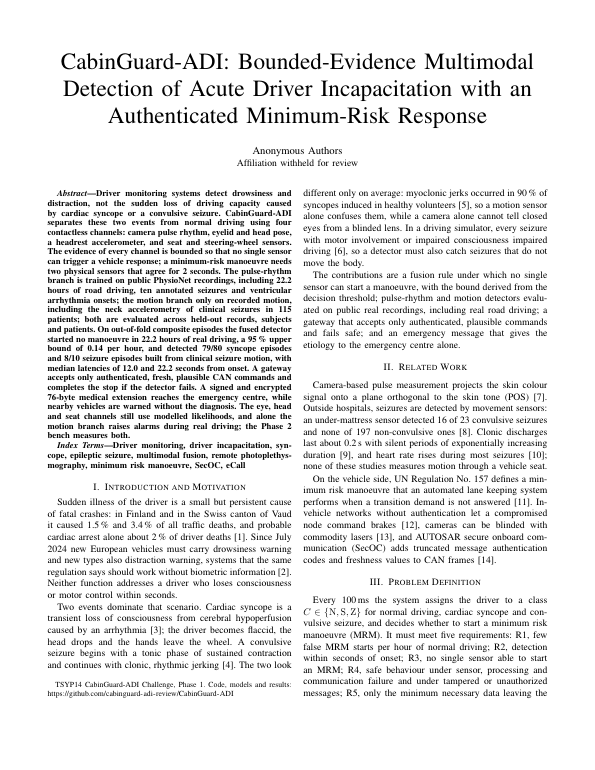
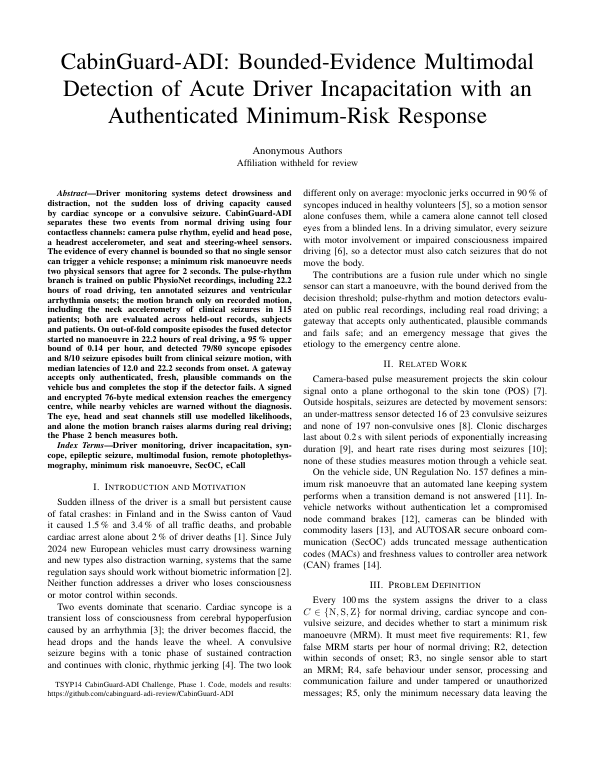
Add files via upload

Changed region(s): [[0.0605, 0.4052, 0.9378, 0.7792], [0.242, 0.3117, 0.363, 0.3429], [0.8168, 0.3429, 0.8471, 0.374]]

diff --git a/1_IEEE_Research_Paper/IEEE_Research_Paper_CabinGuard.tex b/1_IEEE_Research_Paper/IEEE_Research_Paper_CabinGuard.tex
@@ -27,7 +27,7 @@
 \maketitle
 
 \begin{abstract}
-Driver monitoring systems detect drowsiness and distraction, not the sudden loss of driving capacity caused by cardiac syncope or a convulsive seizure. CabinGuard-ADI separates these two events from normal driving using four contactless channels: camera pulse rhythm, eyelid and head pose, a headrest accelerometer, and seat and steering-wheel sensors. The evidence of every channel is bounded so that no single sensor can trigger a vehicle response; a minimum-risk manoeuvre needs two physical sensors that agree for 2 seconds. The pulse-rhythm branch is trained on public PhysioNet recordings, including \DriveHours\ hours of road driving, ten annotated seizures and ventricular arrhythmia onsets; the motion branch only on recorded motion, including the neck accelerometry of clinical seizures in \MrSzBgPatients\ patients; both are evaluated across held-out records, subjects and patients. On out-of-fold composite episodes the fused detector started no manoeuvre in \FusionHours\ hours of real driving, a 95\,\% upper bound of \FaFullUpper\ per hour, and detected \SyFull\ syncope episodes and \SzFull\ seizure episodes built from clinical seizure motion, with median latencies of \LatSyFull\ and \LatSzFull\ seconds from onset. A gateway accepts only authenticated, fresh, plausible CAN commands and completes the stop if the detector fails. A signed and encrypted 76-byte medical extension reaches the emergency centre, while nearby vehicles are warned without the diagnosis. The eye, head and seat channels still use modelled likelihoods, and alone the motion branch raises alarms during real driving; the Phase 2 bench measures both.
+Driver monitoring systems detect drowsiness and distraction, not the sudden loss of driving capacity caused by cardiac syncope or a convulsive seizure. CabinGuard-ADI separates these two events from normal driving using four contactless channels: camera pulse rhythm, eyelid and head pose, a headrest accelerometer, and seat and steering-wheel sensors. The evidence of every channel is bounded so that no single sensor can trigger a vehicle response; a minimum risk manoeuvre needs two physical sensors that agree for 2 seconds. The pulse-rhythm branch is trained on public PhysioNet recordings, including \DriveHours\ hours of road driving, ten annotated seizures and ventricular arrhythmia onsets; the motion branch only on recorded motion, including the neck accelerometry of clinical seizures in \MrSzBgPatients\ patients; both are evaluated across held-out records, subjects and patients. On out-of-fold composite episodes the fused detector started no manoeuvre in \FusionHours\ hours of real driving, a 95\,\% upper bound of \FaFullUpper\ per hour, and detected \SyFull\ syncope episodes and \SzFull\ seizure episodes built from clinical seizure motion, with median latencies of \LatSyFull\ and \LatSzFull\ seconds from onset. A gateway accepts only authenticated, fresh, plausible commands on the vehicle bus and completes the stop if the detector fails. A signed and encrypted 76-byte medical extension reaches the emergency centre, while nearby vehicles are warned without the diagnosis. The eye, head and seat channels still use modelled likelihoods, and alone the motion branch raises alarms during real driving; the Phase 2 bench measures both.
 \end{abstract}
 
 \begin{IEEEkeywords}
@@ -44,13 +44,13 @@ The contributions are a fusion rule under which no single sensor can start a man
 \section{Related Work}
 Camera-based pulse measurement projects the skin colour signal onto a plane orthogonal to the skin tone (POS)~\cite{wang2017pos}. Outside hospitals, seizures are detected by movement sensors: an under-mattress sensor detected 16 of 23 convulsive seizures and none of 197 non-convulsive ones~\cite{nouboue2023}. Clonic discharges last about 0.2\,s with silent periods of exponentially increasing duration~\cite{conradsen2013}, and heart rate rises during most seizures~\cite{eggleston2014}; none of these studies measures motion through a vehicle seat.
 
-On the vehicle side, UN Regulation No.~157 defines a minimum risk manoeuvre that an automated lane keeping system performs when a transition demand is not answered~\cite{unece157}. In-vehicle networks without authentication let a compromised node command brakes~\cite{koscher2010}, cameras can be blinded with commodity lasers~\cite{petit2015}, and AUTOSAR secure onboard communication (SecOC) adds truncated message authentication codes and freshness values to CAN frames~\cite{autosar_secoc}.
+On the vehicle side, UN Regulation No.~157 defines a minimum risk manoeuvre that an automated lane keeping system performs when a transition demand is not answered~\cite{unece157}. In-vehicle networks without authentication let a compromised node command brakes~\cite{koscher2010}, cameras can be blinded with commodity lasers~\cite{petit2015}, and AUTOSAR secure onboard communication (SecOC) adds truncated message authentication codes (MACs) and freshness values to controller area network (CAN) frames~\cite{autosar_secoc}.
 
 \section{Problem Definition}
 Every 100\,ms the system assigns the driver to a class $C\in\{\mathrm{N},\mathrm{S},\mathrm{Z}\}$ for normal driving, cardiac syncope and convulsive seizure, and decides whether to start a minimum risk manoeuvre (MRM). It must meet five requirements: R1, few false MRM starts per hour of normal driving; R2, detection within seconds of onset; R3, no single sensor able to start an MRM; R4, safe behaviour under sensor, processing and communication failure and under tampered or unauthorized messages; R5, only the minimum necessary data leaving the vehicle. A false start first produces a 3\,s alert that a conscious driver cancels, so R1 counts alerts as well as braking.
 
 \section{System Architecture}
-The sensing layer has three physical sensors, shown on the left of Fig.~\ref{fig:arch}. A 30\,fps camera with 850\,nm illumination on the steering column yields the pulse beat times, the eye aspect ratio $e$ and the head pitch $\theta$. An MPU6050 accelerometer in the headrest is sampled at 100\,Hz. A force-sensing resistor in the seatback, a second one in the wheel rim, two capacitive touch pads and the steering torque $\tau$ form the seat and wheel sensor. An ESP32 node streams them in 24-byte frames with sequence number and CRC to the edge host, which runs detection, the watchdog and the MRM state machine and commands the vehicle only through one authenticated CAN message to the gateway that owns the actuators. Inputs older than 300\,ms count as missing.
+The sensing layer has three physical sensors, shown on the left of Fig.~\ref{fig:arch}. A 30\,fps camera with 850\,nm illumination on the steering column yields the pulse beat times, the eye aspect ratio $e$ and the head pitch $\theta$. The headrest inertial measurement unit (IMU), an MPU6050, is sampled at 100\,Hz. A force-sensing resistor (FSR) in the seatback, a second one in the wheel rim, two capacitive touch pads and the steering torque $\tau$ form the seat and wheel sensor. An ESP32 node streams them in 24-byte frames with a sequence number and a cyclic redundancy check (CRC) to the edge host, which runs detection, the watchdog and the MRM state machine and commands the vehicle only through one authenticated CAN message to the gateway that owns the actuators. Inputs older than 300\,ms count as missing.
 
 \begin{figure*}[!t]
 \centering
@@ -59,12 +59,12 @@ The sensing layer has three physical sensors, shown on the left of Fig.~\ref{fig
   sen/.style={draw, thick, minimum width=1.7cm, minimum height=0.55cm, align=center, fill=black!5},
   box/.style={draw, minimum width=1.75cm, minimum height=0.55cm, align=center},
   arr/.style={->, thick}]
-  \node[sen, minimum height=1.45cm] (cam) at (0,3.0) {Camera\\NIR, 30\,fps};
+  \node[sen, minimum height=1.45cm] (cam) at (0,3.0) {Camera\\850\,nm, 30\,fps};
   \node[sen] (imu) at (0,1.55) {Headrest IMU\\100\,Hz};
   \node[sen] (seat) at (0,0.5) {Seat and wheel\\FSR, touch, $\tau$};
-  \node[box] (fc) at (2.6,3.45) {rPPG beats\\pulse rhythm $\mathbf{c}$};
+  \node[box] (fc) at (2.6,3.45) {POS beats\\pulse rhythm $\mathbf{c}$};
   \node[box] (fv) at (2.6,2.55) {landmarks\\$e$, $\theta$};
-  \node[box] (fm) at (2.6,1.55) {Welch PSD\\motion $\mathbf{m}$};
+  \node[box] (fm) at (2.6,1.55) {Welch spectra\\motion $\mathbf{m}$};
   \node[box] (fp) at (2.6,0.5) {slump $\psi$\\grip $g$};
   \node[box] (bc) at (5.2,3.45) {$\lambda_{\mathrm{card}}$, bound};
   \node[box] (bv) at (5.2,2.55) {$\lambda_{\mathrm{vis}}$, bound};
@@ -76,7 +76,7 @@ The sensing layer has three physical sensors, shown on the left of Fig.~\ref{fig
   \node[box] (gw) at (15.0,3.0) {SecOC 0x120\\gateway};
   \node[box] (act) at (17.9,3.0) {brakes, hazards\\parking brake};
   \node[box] (tel) at (15.0,0.95) {telematics\\unit};
-  \node[box] (psap) at (17.9,1.45) {PSAP\\signed MEC};
+  \node[box] (psap) at (17.9,1.45) {emergency\\centre, MEC};
   \node[box] (v2x) at (17.9,0.45) {vehicles\\DENM};
   \draw[arr] ([yshift=0.45cm]cam.east) -- (fc.west);
   \draw[arr] ([yshift=-0.45cm]cam.east) -- (fv.west);
@@ -105,7 +105,7 @@ The sensing layer has three physical sensors, shown on the left of Fig.~\ref{fig
 
 \section{Detection Methodology}
 \subsection{Features}
-The camera front end detects pulse peaks in the POS signal~\cite{wang2017pos}; in the public recordings used for training the beats are ECG R-peaks instead. Over a 10\,s window the pulse-rhythm vector $\mathbf{c}$ holds the rate from the median inter-beat interval, its difference from the driver's own running baseline, the coefficient of variation of the intervals, and the fraction $a$ of the window not covered by intervals shorter than 2\,s. Ventricular fibrillation, flutter and asystole produce no pulse and raise $a$ towards one. Eye opening is the eye aspect ratio of Soukupov\'a and \v{C}ech~\cite{soukupova2016} from six eyelid landmarks.
+The camera front end detects pulse peaks in the POS signal~\cite{wang2017pos}; in the public recordings used for training the beats are electrocardiogram (ECG) R-peaks instead. Over a 10\,s window the pulse-rhythm vector $\mathbf{c}$ holds the rate from the median inter-beat interval, its difference from the driver's own running baseline, the coefficient of variation of the intervals, and the fraction $a$ of the window not covered by intervals shorter than 2\,s. Ventricular fibrillation (VF), flutter and asystole produce no pulse and raise $a$ towards one. Eye opening is the eye aspect ratio of Soukupov\'a and \v{C}ech~\cite{soukupova2016} from six eyelid landmarks.
 \begin{equation}
 e=\frac{\lVert p_2-p_6\rVert+\lVert p_3-p_5\rVert}{2\,\lVert p_1-p_4\rVert}
 \label{eq:ear}
@@ -115,7 +115,7 @@ In Equation~\eqref{eq:ear}, $p_1$ and $p_4$ are the eye corners and $p_2,p_3,p_5
 r=\frac{\int_{2}^{6}S(f)\,\mathrm{d}f}{\int_{0.5}^{20}S(f)\,\mathrm{d}f}
 \label{eq:ser}
 \end{equation}
-In Equation~\eqref{eq:ser}, $r$ is the spectral energy ratio and $f$ the frequency in hertz; each window is first low-passed at 7\,Hz by a causal fourth-order Butterworth filter, so recordings sampled between 16 and 100\,Hz present the same bandwidth. A ratio alone is noisy when the body is still, so the motion vector $\mathbf{m}$ adds the 2--6\,Hz RMS acceleration, the peak frequency, the total RMS, the largest autocorrelation at lags of 0.15--0.5\,s, which captures the repetition of jerks, and the peak-to-mean ratio of the band spectrum. Postural slump $\psi$ is one minus the mean normalized seatback pressure over 1\,s, and $g$ is the grip state: active, disengaged, or clenched when the rim force exceeds a threshold.
+In Equation~\eqref{eq:ser}, $r$ is the spectral energy ratio and $f$ the frequency in hertz; each window is first low-passed at 7\,Hz by a causal fourth-order Butterworth filter, so recordings sampled between 16 and 100\,Hz present the same bandwidth. A ratio alone is noisy when the body is still, so the motion vector $\mathbf{m}$ adds the 2--6\,Hz root-mean-square (RMS) acceleration, the peak frequency, the total RMS, the largest autocorrelation at lags of 0.15--0.5\,s, which captures the repetition of jerks, and the peak-to-mean ratio of the band spectrum. Postural slump $\psi$ is one minus the mean normalized seatback pressure over 1\,s, and $g$ is the grip state: active, disengaged, or clenched when the rim force exceeds a threshold.
 
 \subsection{Branch Evidence}
 Four branches turn features into evidence. The cardiac branch is a multinomial logistic regression on $\mathbf{c}$ and the motion branch gradient-boosted trees~\cite{friedman2001} with the histogram splits of LightGBM~\cite{ke2017} on $\mathbf{m}$, both trained with weights that balance the classes. The vision branch on $(e,\theta)$ and the posture branch on $(\psi,g)$ use expert-set Gaussian and categorical class densities, since no public recording provides them for incapacitated drivers. A discriminative model's posterior becomes a likelihood ratio once its training prior is divided out, the scaled-likelihood step of hybrid connectionist recognisers~\cite{bourlard1994}.
@@ -149,15 +149,15 @@ The watchdog sets the flag $F$ that starts the MRM when one event class keeps $P
 \section{Safety Response and Fault Handling}
 Once $F$ is set, the state machine follows the transition-demand sequence of UN Regulation No.~157~\cite{unece157} with design values of our own: a 3\,s audible and haptic alert that the driver cancels by braking or by more than 4\,Nm of steering torque, unless the torque coincides with clonic motion or a clenched grip; hazard lights and escalation; braking at $-3.2$\,m/s$^2$ from 10\,s after the alert with a move to the shoulder; and at standstill the parking brake and door unlock. The emergency call is placed when the alert goes unanswered, not after the stop.
 
-The watchdog derives the mode from sensor freshness. Losing the camera removes the cardiac and vision branches (degraded mode 1), losing the accelerometer removes the motion branch (degraded mode 2), and with fewer than two sensors left no MRM may start and the driver is warned instead (degraded mode 3). When the camera reports no pulse or closed eyes while the wheel shows an upright driver steering with more than 1\,Nm, the readings contradict each other, so the camera is distrusted for 10\,s and the event is logged.
+The watchdog derives the mode from sensor freshness. Losing the camera removes the cardiac and vision branches (degraded mode 1), losing the IMU removes the motion branch (degraded mode 2), and with fewer than two sensors left no MRM may start and the driver is warned instead (degraded mode 3). When the camera reports no pulse or closed eyes while the wheel shows an upright driver steering with more than 1\,Nm, the camera is distrusted for 10\,s and the event is logged.
 
-The gateway trusts no command. A frame must pass authentication and a plausibility gate that allows only the phase order of the state machine and decelerations between 0 and $-4$\,m/s$^2$; it does not check how long each phase lasts, so a compromised host holding the key could brake at $-4$\,m/s$^2$ within three frames. The command doubles as an alive signal: after 300\,ms without a valid frame the gateway flags an ECU fault and, if the driver is still in control, actuates nothing; if a manoeuvre is already under way it completes the stop, because a driver judged incapacitated cannot take over. The host itself goes silent after three consecutive 100\,ms deadline overruns. The emergency message is retried with 1, 2 and 4\,s backoff, then sent by SMS, then kept and retried every 30\,s; the manoeuvre never waits for it.
+The gateway trusts no command. A frame must pass authentication and a plausibility gate that allows only the phase order of the state machine and decelerations between 0 and $-4$\,m/s$^2$; it does not check how long each phase lasts, so a compromised host holding the key could brake at $-4$\,m/s$^2$ within three frames. The command doubles as an alive signal: after 300\,ms without a valid frame the gateway flags a host fault and, if the driver is still in control, actuates nothing; if a manoeuvre is already under way it completes the stop, because a driver judged incapacitated cannot take over. The host itself goes silent after three consecutive 100\,ms deadline overruns. The emergency message is retried with 1, 2 and 4\,s backoff, then sent by SMS, then kept and retried every 30\,s; the manoeuvre never waits for it.
 
 \section{Cybersecurity and Threat Model}
 The protected assets are the vehicle actuators, the driver's physiological data, the integrity of the emergency message and the driver's identity and location. The sensor link inside the cabin is protected against corruption by its CRC but not against an attacker with physical access; that attacker and a compromised host holding the CAN key are outside the scope, a residual risk; the CAN bus, the cellular network and the radio channel are untrusted, and the gateway is the trusted boundary in front of the actuators. Table~\ref{tab:threats} lists the threats and the control that answers each.
 
 \begin{table}[!t]
-\caption{Threats, controls and the fault-matrix case that exercises each}
+\caption{Threats, controls and the test that exercises each}
 \label{tab:threats}
 \centering
 \footnotesize
@@ -171,7 +171,7 @@ Tampered frame & MAC check, alive timeout & tampered frames \\
 Valid MAC, unsafe value & phase order, $-4$\,m/s$^2$ limit & implausible \\
 Camera blinding & interlock, two-sensor rule & optical blinding \\
 Lost or stale sensor & freshness, degraded modes & IMU, seat stale \\
-ECU hang & fail-silent host, gateway stop & two hang cases \\
+Host hang & fail-silent host, gateway stop & two hang cases \\
 Network outage & retry, SMS fallback, queue & two bearer cases \\
 Forged or read MEC & ECDSA P-256, ECIES & unit tests \\
 \bottomrule
@@ -180,10 +180,10 @@ Forged or read MEC & ECDSA P-256, ECIES & unit tests \\
 
 The 0x120 command follows SecOC profile 1, AES-128-CMAC~\cite{nist80038b} truncated to 24 bits over the data identifier, payload and a 64-bit freshness value of which the low 8 bits are sent~\cite{autosar_secoc}. The status frame that other nodes can read carries sensor health only, never a biometric value.
 
-The 76-byte medical extension container (MEC) has a 12-byte header with etiology, confidence, latency, heart rate and sequence number, and a 64-byte ECDSA P-256 signature from a pseudonymous key, the curve and signature used by ITS security certificates~\cite{etsi103097}. It is encrypted to the emergency centre's public key with ephemeral ECDH, HKDF and AES-GCM and travels beside the eCall, not inside its 140-byte minimum set of data~\cite{en15722}, which already carries the location. Nearby vehicles receive a decentralized environmental notification with cause code 93, human problem, and sub-cause 0, unavailable~\cite{etsi102894}, so the etiology never leaves the emergency channel. The system stores no video and no waveform; only 10\,s feature buffers exist, in memory.
+The 76-byte medical extension container (MEC) has a 12-byte header with etiology, confidence, latency, heart rate and sequence number, and a 64-byte ECDSA P-256 signature from a pseudonymous key, the curve and signature used by intelligent transport system certificates~\cite{etsi103097}. It is encrypted to the emergency centre's public key with ephemeral ECDH, HKDF and AES-GCM and travels beside the eCall, not inside its 140-byte minimum set of data~\cite{en15722}, which already carries the location. Nearby vehicles receive a decentralized environmental notification message (DENM) with cause code 93, human problem, and sub-cause 0, unavailable~\cite{etsi102894}, so the etiology never leaves the emergency channel. The system stores no video and no waveform; only 10\,s feature buffers exist, in memory.
 
 \section{Evaluation Methodology}
-Table~\ref{tab:data} lists the public recordings, all from PhysioNet~\cite{goldberger2000}. Driving-study R-peaks come from the WFDB XQRS detector. Windows in VT are labelled cardiac and keep their beats; windows in fibrillation, flutter or asystole are labelled cardiac and lose their beats, because no pulse reaches the face. Atrial fibrillation, bigeminy and other rhythms that do not incapacitate count as normal, as hard negatives.
+Table~\ref{tab:data} lists the public recordings, all from PhysioNet~\cite{goldberger2000}. Driving-study R-peaks come from the WFDB XQRS detector. Windows in ventricular tachycardia (VT) are labelled cardiac and keep their beats; those in fibrillation, flutter or asystole are cardiac and lose them, as no pulse reaches the face. Atrial fibrillation, bigeminy and other rhythms that do not incapacitate count as normal, as hard negatives.
 
 \begin{table}[!t]
 \caption{Public recordings used for training and evaluation}
@@ -206,7 +206,7 @@ UCI HAR~\cite{anguita2013} & waist, 30 adults & test only \\
 \end{tabular}
 \end{table}
 
-The cardiac branch is validated leaving one of \NcardRecords\ records out. The motion branch is trained on recorded motion only: motor seizures recorded with a neck accelerometer during video-EEG monitoring~\cite{bhagubai2025} and volunteers' seizure mimics~\cite{villar2016}, against patient background more than 10\,min from any seizure, the volunteers' other activities, driving, walking and stairs~\cite{karas2021}, and everyday activities~\cite{banos2014}. Seizure windows are positives only when their motion exceeds twice the pre-ictal level and the median hip RMS of the training drivers, as weaker motion is lost in road vibration; this labelling took three held-out runs, the earlier ones having taught the branch to flag stillness. People are held out in five folds; the mimics are scored on their test split, which shares its six volunteers with training; \cite{anguita2013} is never trained on. No recording measures seizure motion in a seat, so a jerk train with the clonic dynamics of~\cite{conradsen2013}, 0.2\,s discharges with silent periods growing from 0.05--0.15\,s to about 1\,s over 40 jerks, is added to held-out hip driving at 0.05--0.5\,g, for testing only.
+The cardiac branch is validated leaving one of \NcardRecords\ records out. The motion branch is trained on recorded motion only: motor seizures recorded with a neck accelerometer during video-electroencephalography monitoring~\cite{bhagubai2025} and volunteers' seizure mimics~\cite{villar2016}, against patient background more than 10\,min from any seizure, the volunteers' other activities, driving, walking and stairs~\cite{karas2021}, and everyday activities~\cite{banos2014}. Seizure windows are positives only when their motion exceeds twice the pre-ictal level and the median hip RMS of the training drivers, as weaker motion is lost in road vibration; this labelling took three held-out runs, the earlier ones having taught the branch to flag stillness. People are held out in five folds; the mimics are scored on their test split, which shares its six volunteers with training; UCI HAR~\cite{anguita2013} is never trained on. No recording measures seizure motion in a seat, so a jerk train with the clonic dynamics of~\cite{conradsen2013}, 0.2\,s discharges with silent periods growing from 0.05--0.15\,s to about 1\,s over 40 jerks, is added to held-out hip driving at 0.05--0.5\,g, for testing only.
 
 The fused detector is evaluated on composite episodes, which is the conditional-independence assumption of Equation~\eqref{eq:fusion} applied to the test data. A normal episode pairs a held-out drive with held-out driving accelerometry. A syncope episode takes one of \NSyncopeEp\ ventricular arrhythmia onsets after 30\,s of normal rhythm; loss of consciousness, driving the vision and posture channels, is assumed 6--12\,s later. A seizure episode takes each of the ten seizures and the neck motion of a motor seizure of a held-out patient from its onset, or, after a 5--15\,s tonic phase, the modelled jerk train at 0.1, 0.2 and 0.5\,g. Vision and posture channels are generated with everyday confounders: blinks, 1--3\,s glances down every 45\,s, forward leans every 120\,s and one-handed steering every 60\,s. Separately, the full software pipeline runs \FaultCases\ failure and attack cases with synthetic sensors, \FaultSeeds\ seeds each.
 
@@ -220,7 +220,7 @@ Table~\ref{tab:branch} gives the branch results. The pulse rhythm separates vent
 \footnotesize
 \begin{tabular}{@{}lccc@{}}
 \toprule
-Cardiac branch & Gaussian NB & Logistic & Boosted trees \\
+Cardiac branch & Naive Bayes & Logistic & Boosted trees \\
 \midrule
 AUC, VT/VF vs rest & \CardNbAucCardiac & \CardLrAucCardiac & \CardGbAucCardiac \\
 AUC, seizure vs rest & \CardNbAucSeizure & \CardLrAucSeizure & \CardGbAucSeizure \\
@@ -238,7 +238,7 @@ Mimics; other recordings fired & \multicolumn{3}{c}{\MrEpiHit/\MrEpiN; \MrEpiOth
 \end{tabular}
 \end{table}
 
-The deployed cardiac model is the logistic one, the best by AUC. In Table~\ref{tab:fusion} only the cardiac and motion rows use real signals; vision and posture are generated from the densities that score them, so every row including them is optimistic. All four branches started no manoeuvre in \FusionHours\ hours of real driving, which puts the 95\,\% upper bound of the rate at \FaFullUpper\ per hour, and detected \SyFull\ syncope and \SzFull\ clinical-motion seizure episodes, with 90th-percentile latencies of \PctSyFull\ and \PctSzFull\,s, \SzModFull\ with the modelled jerk train and \SzMimFull\ with recorded mimics. Without the IMU \SzNoImu\ clinical-motion episodes are detected: reading weak seizure motion as normal, the motion branch votes against camera and seat. Losing the camera confirms no syncope, by design.
+The deployed cardiac model is the logistic one, the best by area under the curve (AUC). In Table~\ref{tab:fusion} only the cardiac and motion rows use real signals; vision and posture are generated from the densities that score them, so every row including them is optimistic. All four branches started no manoeuvre in \FusionHours\ hours of real driving, which puts the 95\,\% upper bound of the rate at \FaFullUpper\ per hour, and detected \SyFull\ syncope and \SzFull\ clinical-motion seizure episodes, with 90th-percentile latencies of \PctSyFull\ and \PctSzFull\,s, \SzModFull\ with the modelled jerk train and \SzMimFull\ with recorded mimics. Without the IMU \SzNoImu\ clinical-motion episodes are detected; with it, the motion branch reads weak seizure motion as normal and votes against camera and seat. Losing the camera confirms no syncope, by design.
 
 \begin{table}[!t]
 \caption{Fused detector on out-of-fold composite episodes}
@@ -264,7 +264,7 @@ IMU lost & \FaNoImu & \SyNoImu & \SzNoImu; \SzModNoImu & \LatSyNoImu, \LatSzNoIm
 Searching $W$ over 0, 2, 4 and 8\,s raised the median syncope latency from \SweepLatZero\ to \SweepLatEight\,s. In each of \WFolds\ folds, $W$ was chosen on the other folds as the shortest with the highest syncope sensitivity; \ifnum\WAllSame=1 every fold chose \WChosen\,s, so the held-out results are those of Table~\ref{tab:fusion}.\else the folds chose \WChosen\,s, and the held-out full fusion gives \FaNested\ false manoeuvres per hour, syncope \SyNested\ and seizures \SzNested.\fi
 
 
-All \FaultPassed\ of \FaultRuns\ fault-matrix runs reached the required outcome: no manoeuvre under sensor loss, stale data, blinding, or tampered, replayed, forged or implausible commands; a fail-silent gateway when the host hangs while driving and a completed stop when it hangs during a manoeuvre; and a verified MEC after cellular loss or a 60\,s loss of every bearer. On one laptop core a detection cycle took \CycleMedian\,ms at the median, \CycleP\,ms at the 99th percentile and \CycleMax\,ms at worst, within the 100\,ms deadline. Figure~\ref{fig:dashboard} shows the prototype dashboard running it at 10\,Hz in a scripted seizure; the repository has the full page.
+All \FaultPassed\ of \FaultRuns\ fault-matrix runs reached the required outcome: no manoeuvre under sensor loss, stale data, blinding or any of the rejected commands of Table~\ref{tab:threats}; a fail-silent gateway when the host hangs while driving and a completed stop when it hangs during a manoeuvre; and a verified MEC after cellular loss or a 60\,s loss of every bearer. In these runs a detection cycle took \CycleMedian\,ms at the median, \CycleP\,ms at the 99th percentile and \CycleMax\,ms at worst, within the 100\,ms deadline. Figure~\ref{fig:dashboard} shows the prototype dashboard running the pipeline at 10\,Hz in a scripted seizure; the repository has the full page.
 
 \begin{figure}[!t]
 \centering
@@ -274,7 +274,7 @@ All \FaultPassed\ of \FaultRuns\ fault-matrix runs reached the required outcome:
 \end{figure}
 
 \section{Conclusion}
-Bounded evidence and two physical sensors made the detector sensitive and quiet on real driving, and the vehicle moves only on commands a fail-safe gateway authenticates. Three limits remain. The vision and posture likelihoods are expert-set and their channels modelled, so the fused results above are an upper estimate until those channels are measured; the motion branch learns seizure motion from patients lying in bed with a neck sensor, raises alarms during real driving on its own, and no recording yet measures seizure motion at a headrest; and the composite episodes assume that the branches are independent given the class. Phase 2 will measure the eye, head and seat likelihoods, headrest seizure motion and pulse accuracy on a hardware bench.
+Bounded evidence and two physical sensors made the detector sensitive and quiet on real driving, and the vehicle moves only on commands a fail-safe gateway authenticates. Three limits remain. The vision and posture likelihoods are expert-set and their channels modelled, so the fused results are an upper estimate; the motion branch learns seizure motion from patients in bed with a neck sensor, raises alarms during real driving on its own, and no recording yet measures seizure motion at a headrest; and the composite episodes assume that the branches are independent given the class. Phase 2 will measure the eye, head and seat likelihoods, headrest seizure motion and pulse accuracy on a hardware bench.
 
 \begin{thebibliography}{00}
 \bibitem{halinen1994} M.~O. Halinen and A.~Jaussi, ``Fatal road accidents caused by sudden death of the driver in Finland and Vaud, Switzerland,'' \emph{Eur. Heart J.}, vol.~15, no.~7, pp.~888--894, 1994.
